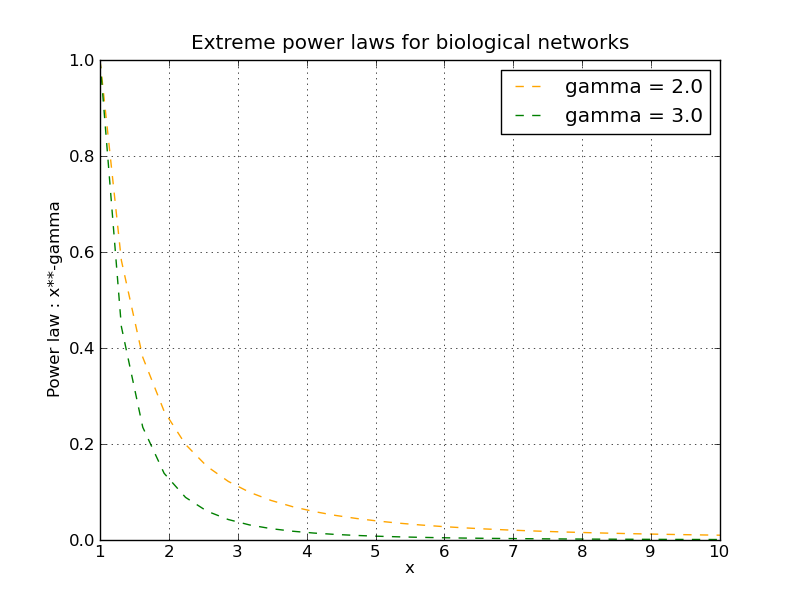
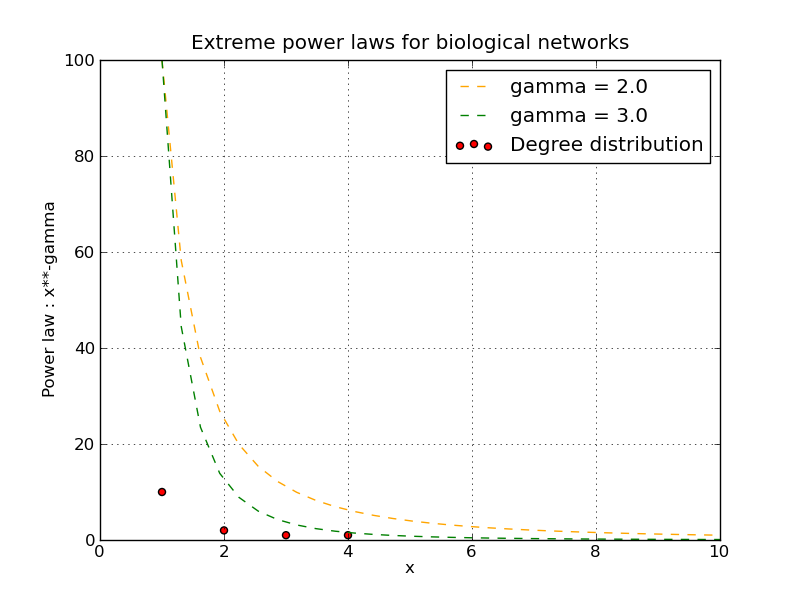
Superposition des degres experimentaux et des distributions puissances limites

diff --git a/Algo/PowerLaw.py b/Algo/PowerLaw.py
@@ -13,29 +13,29 @@ NB_POINTS = 30
 MIN = 1
 MAX = 10
 X = linspace(MIN,MAX,NB_POINTS) # x from MIN to MAX with NB_POINTS points
-LAW_COLOR=["orange","green"]
+LAW_COLOR=["orange","green","red"]
 
 
 # Functions 
 def PowerLaw(gamma):
-    """Generates a power law distribution"""
-    return [x**(-gamma) for x in X]
+    """ Generates a power law distribution """
+    return [10*x**(-gamma) for x in X]# coeff : deg max ?
+
 
 def GammaRange():
-    """ Range from 2 to 3 
-    corresponds to biological networks"""
+    """ Range from 2 to 3. 
+    Corresponds to biological networks """
     return arange(2,3.1,1)
 
 def Legend(gamma):
-    """ Generates the legend string with the gamma values"""
+    """ Generates the legend string with the gamma values """
     s=[]
     for g in gamma:
         s.append("gamma = "+str(g))
     return s
 
-def PlotPowerLaw():
-    """Plots power laws 
-    for all gammas in GammaRange()"""
+def PlotLimitPowerLaw(Degree):
+    """ Plots power laws for all gammas in GammaRange() """
     col = 0
     
     for g in GammaRange():
@@ -46,16 +46,30 @@ def PlotPowerLaw():
             print 'Size incoherency'
         col+=1
     
-    # Plot features
+    # Basic plot features
     p.title("Extreme power laws for biological networks")
     p.xlabel("x")
     p.ylabel("Power law : x**-gamma")
-    l = Legend(GammaRange())
-    p.legend((l[0],l[1]),'upper right')
     p.grid()
+    
+    # Add the node degree distribution
+    AddDegreeLaw(Degree,col)
+    
+    # Final plot features
+    l = Legend(GammaRange())
+    p.legend((l[0],l[1],"Degree distribution"),'upper right')
     p.savefig("Plot.png")
     p.close()
 
+def AddDegreeLaw(DegreeDistrib,col):
+    """ Add the node degree distribution on the power laws plot """
+    # DegreeDistrib = [(NbNodes, deg),(...)]
+    x = [DegreeDistrib[i][0] for i in range(len(DegreeDistrib))]
+    y = [DegreeDistrib[i][1] for i in range(len(DegreeDistrib))]
+    p.scatter(x,y,c=LAW_COLOR[col])
+
+    
 # MAIN
 
-PlotPowerLaw()
+Deg = [(1,10),(2,2),(3,1),(4,1)] # artificial list of degrees and nb of nodes
+PlotLimitPowerLaw(Deg)
